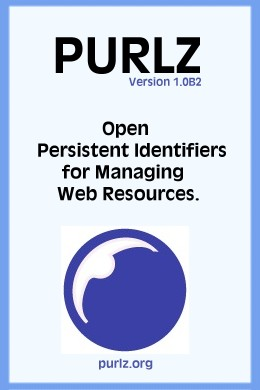
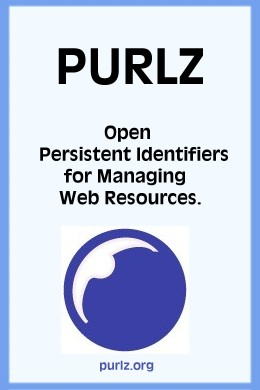
Updates after Eric and Brian's review.

Changed region(s): [[0.1231, 0.3077, 0.8923, 0.5231], [0.1846, 0.0923, 0.8, 0.2462], [0.3692, 0.9231, 0.6154, 0.9538]]

diff --git a/src/installer/README.html b/src/installer/README.html
@@ -14,13 +14,11 @@
 <center>
 	
 <h2>PURL Server</h2>
-<p>Version 1.0b2</p>
+<p>Version 1.0b3</p>
 
-<p>This program will install a PURL Server on your computer.  More information about PURLs may be found on the PURL community site at <a href="http://purlz.org/">http://purlz.org</a>.</p>
+<p>This program will install a PURL Server on your computer.  More information about PURLs may be found on the PURL community site at http://purlz.org.</p>
 
-<p>PURL software is Open Source Software, distributed under the Apache 2.0 License and includes other components licensed separately.  Please read the licenses carefully.</p>
-
-<p>If you cannot agree to the licenses please send email to <a href="mailto:contact@zepheira.com">contact@zepheira.com</a> to purchase an alternative license.</p>
+<p>PURL software is Open Source Software, distributed under the Apache 2.0 License and includes other components licensed separately.  Please read the licenses carefully. If you have any questions regarding the licenses associated with this work, please send email to purlz@zepheira.com</p>
 
 </center>
 
